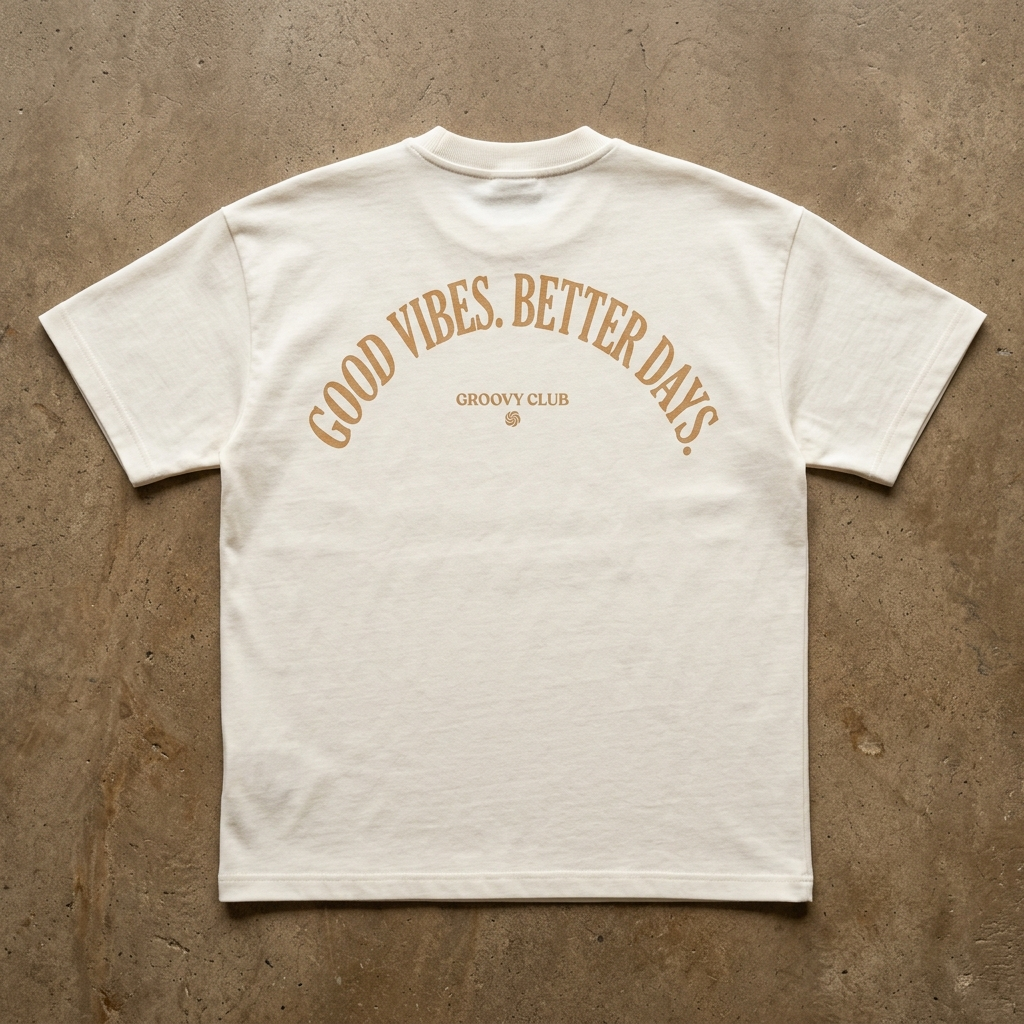
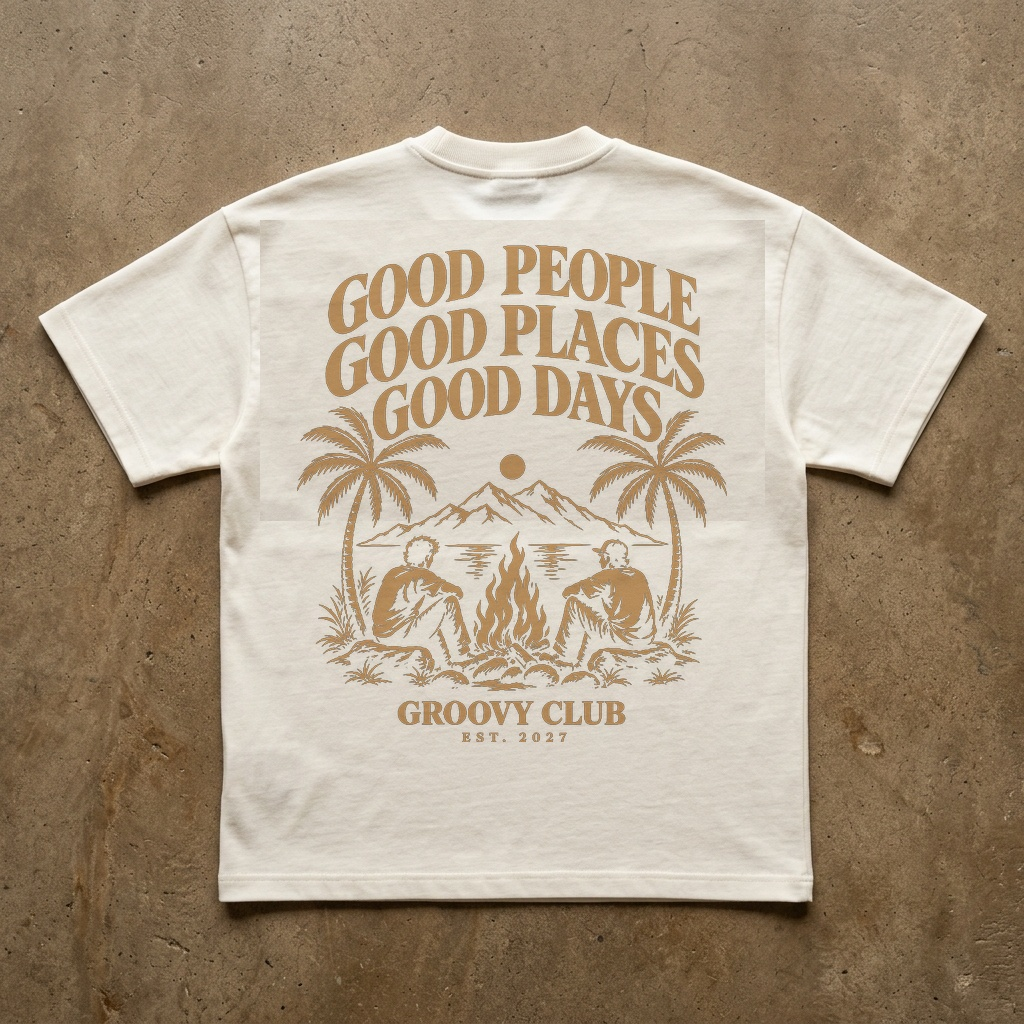
Implement formal front and back shirt designs using official artwork

Changed region(s): [[0.25, 0.1875, 0.75, 0.7188], [0.25, 0.2188, 0.2812, 0.2812]]

diff --git a/index.html b/index.html
@@ -269,12 +269,12 @@
                   <div class="garment-img-wrapper">
                     <img
                       src="/images/tee-front.jpg"
-                      alt="Front view of the Groovy Club Signature Tee in warm ivory featuring centered GROOVY CLUB arch graphic in signature color #CEA370"
+                      alt="Front view of the Groovy Club Signature Tee featuring centered arched GROOVY CLUB with Groovy Curve wave underline in signature color #CEA370"
                       class="garment-img"
                       width="700"
                       height="700"
                     />
-                    <div class="view-tag">Front &bull; Official Groovy Emblem in #CEA370</div>
+                    <div class="view-tag">Front &bull; Arched GROOVY CLUB &amp; Wave Underline</div>
                   </div>
                 </div>
 
@@ -283,12 +283,12 @@
                   <div class="garment-img-wrapper">
                     <img
                       src="/images/tee-back.jpg"
-                      alt="Back view of the Groovy Club Signature Tee showing large GOOD VIBES. BETTER DAYS. arched back print in signature color #CEA370"
+                      alt="Back view of the Groovy Club Signature Tee featuring monumental 'Good People Good Places Good Days' campfire woodcut artwork in signature color #CEA370"
                       class="garment-img"
                       width="700"
                       height="700"
                     />
-                    <div class="view-tag">Back &bull; Arched Tagline Print</div>
+                    <div class="view-tag">Back &bull; "Good People Good Places Good Days"</div>
                   </div>
                 </div>
 
@@ -358,10 +358,11 @@
                 <div class="spec-row">
                   <div class="spec-number">04</div>
                   <div class="spec-info">
-                    <span class="spec-name">Matte Water-Based Screen Print</span>
+                    <span class="spec-name">Formal Front &amp; Back Screen Prints</span>
                     <p class="spec-description">
-                      Printed exclusively in our signature color <strong>#CEA370</strong> featuring our official
-                      Groovy Club eyes &amp; smile emblem using soft water-based inks that penetrate the fibers for a breathable, vintage hand feel.
+                      Tailored front chest features our clean arched <strong>GROOVY CLUB</strong> with dual Groovy Curve underline.
+                      The back showcases the statement <strong>"Good People Good Places Good Days"</strong> campfire woodcut
+                      illustration, screen-printed in matte water-based ink <strong>#CEA370</strong>.
                     </p>
                   </div>
                 </div>

diff --git a/src/main.js b/src/main.js
@@ -148,15 +148,22 @@ document.addEventListener('DOMContentLoaded', () => {
     'tee-modal': {
       title: 'Signature Tee',
       kicker: 'Core Piece • In Development',
-      desc: 'The foundational Groovy Club garment. Engineered from 260 GSM compact combed cotton with a thick 1.25" rib crewneck, controlled dropped shoulders, and subtle water-based screen print in signature #CEA370.',
+      desc: 'The foundational Groovy Club garment. Engineered from 260 GSM compact combed cotton with a thick 1.25" rib crewneck, controlled dropped shoulders, formal front arched Groovy Club & wave print, and monumental "Good People Good Places Good Days" campfire back illustration in signature #CEA370.',
       image: '/images/tee-front.jpg',
-      thumbs: ['/images/tee-front.jpg', '/images/tee-back.jpg', '/images/tee-detail.jpg'],
+      thumbs: [
+        '/images/tee-front.jpg',
+        '/images/tee-back.jpg',
+        '/images/tee-back-flower.jpg',
+        '/images/tee-back-headphone.jpg',
+        '/images/tee-detail.jpg',
+      ],
       bullets: [
-        'Heavyweight 260 GSM compact combed cotton',
+        'Formal Front: Clean arched GROOVY CLUB wordmark with dual Groovy Curve wave underline',
+        'Formal Back: Monumental "Good People Good Places Good Days" campfire woodcut illustration',
+        'Heavyweight 260 GSM compact combed cotton (100% pre-shrunk)',
+        'Thick, dense 1.25" structured 1x1 rib collar with reinforced topstitching',
         'Relaxed, slightly boxy silhouette with controlled dropped shoulders',
-        'Thick, dense 1.25" structured 1x1 rib collar',
         'Matte water-based screen print in signature color #CEA370',
-        'Pre-shrunk to retain measurements across washing',
       ],
       colors: [
         { name: 'Warm Ivory', hex: '#F5F1E8' },
